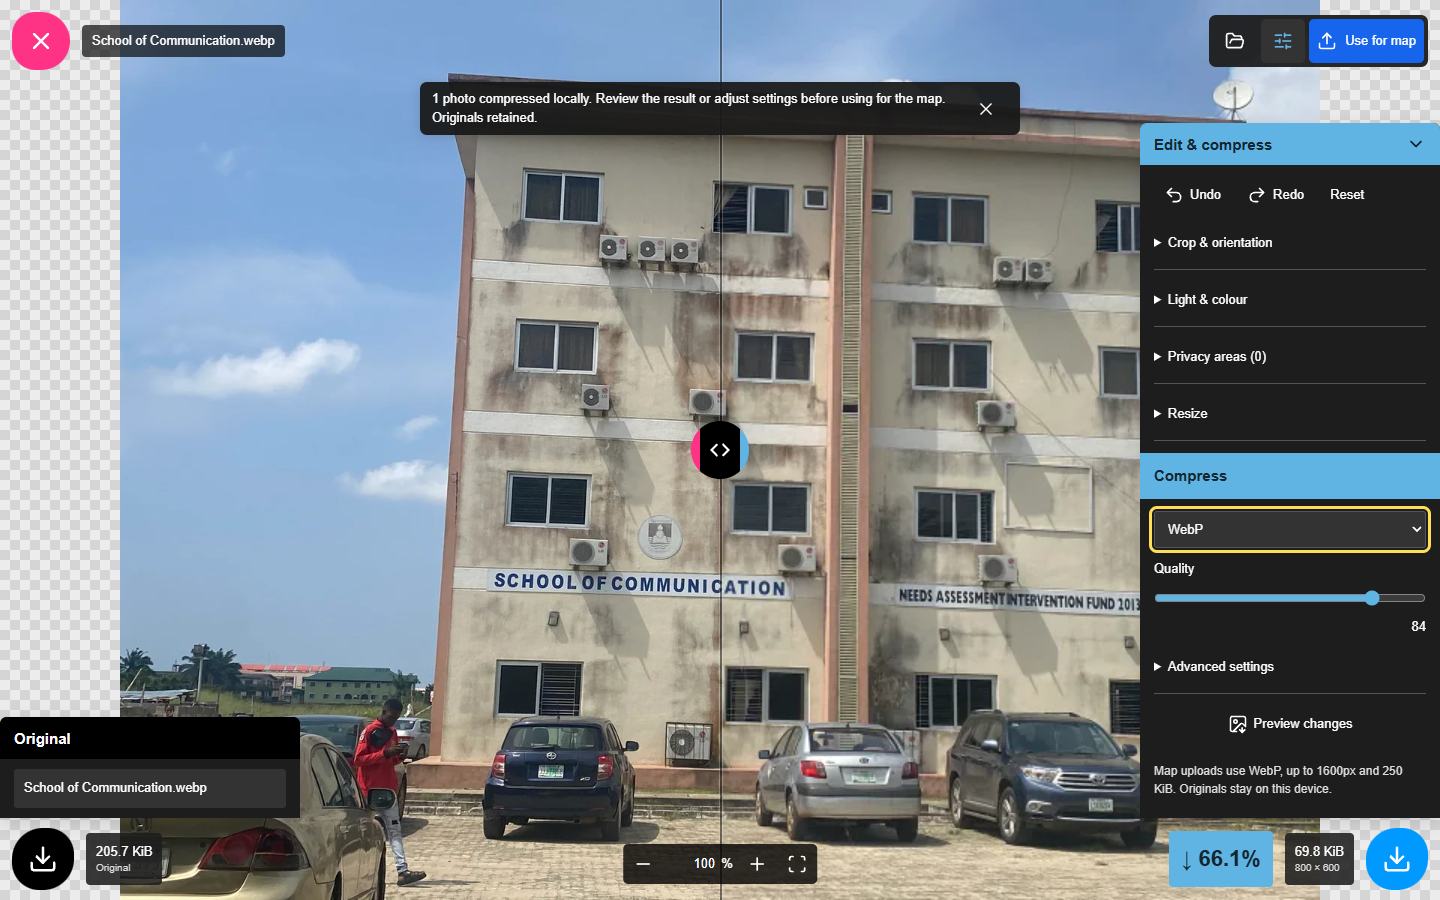
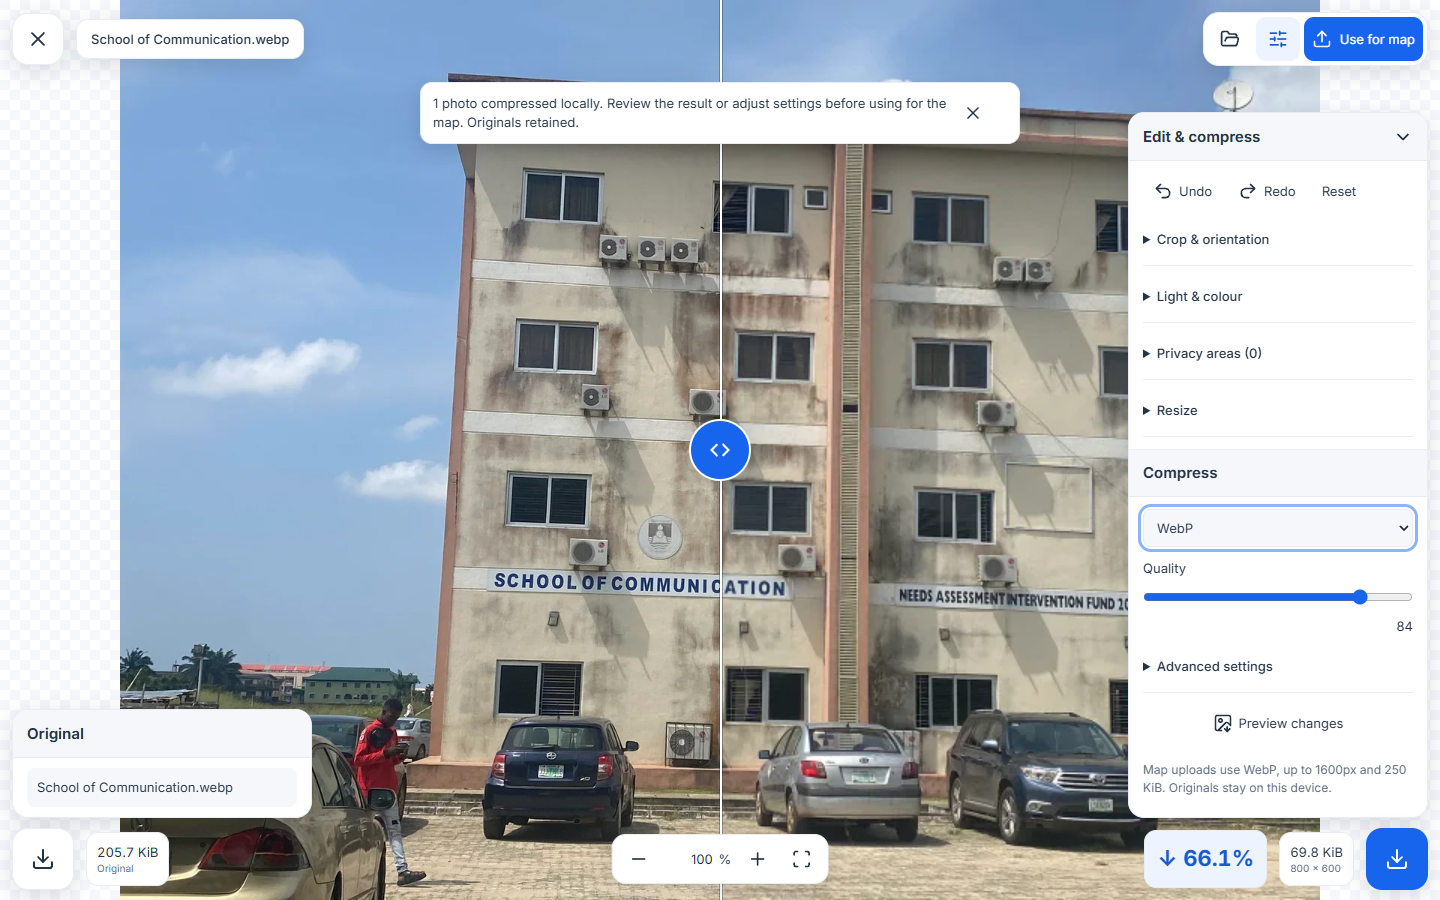
docs(photos): illustrate portrait comparison and TurnRight light and dark themes

diff --git a/docs/PHOTO-EDITING.md b/docs/PHOTO-EDITING.md
@@ -4,21 +4,25 @@ Open **Manage photos** on a building and use its sliders icon to open one editor
 
 ## Compare and compress
 
-The workspace follows Squoosh's desktop/mobile arrangement: a full-screen image, an original/edited wipe, bottom byte-size and download controls, and floating dark settings with blue and pink accents. Desktop controls float beside the image; phones use one collapsible settings panel. The header keeps Close, local files, details, settings and **Use for map** reachable.
+The workspace combines a Squoosh-inspired full-screen comparison with TurnRight's blue actions, rounded controls, Inter typography and shared light/dark theme. Settings float in white or slate panels beside the image. Phone portrait starts with a horizontal divider: original above, edited output below, and two compact download/settings bars at the bottom. Expand a bar's chevron for local files or compression settings. Desktop and landscape keep the vertical divider. The header keeps Close, details and **Use for map** reachable.
 
 ![Desktop comparison with measured output size](assets/screenshots/photo-editor-desktop-2026-09-30.png)
 
 | Phone portrait | Phone landscape |
 | --- | --- |
-| <img src="assets/screenshots/photo-editor-portrait-2026-09-30.png" width="280" alt="Phone photo editor with collapsible settings and original/edited downloads"> | ![Landscape comparison and scrollable settings](assets/screenshots/photo-editor-landscape-2026-09-30.png) |
+| <img src="assets/screenshots/photo-editor-portrait-2026-09-30.png" width="280" alt="Portrait horizontal comparison with two collapsed bottom bars"> | ![Landscape comparison and scrollable settings](assets/screenshots/photo-editor-landscape-2026-09-30.png) |
 
 1. Choose still JPEG, PNG or WebP inputs: up to 25 MiB and 40 megapixels each, or 20 images / 100 MiB per batch. Animated inputs are rejected. **Adding files automatically compresses every new image** to WebP, at most 1,600 pixels, starting at quality 84 with a 250 KiB target and a quality floor of 65. Originals are saved first. Progress, pause and cancellation remain visible; one encoding failure retains that original and does not stop other valid files.
 2. **Crop & orientation** offers drawing, numeric percentages, aspect ratios, rotation, straighten and flips. **Light & colour** adjusts exposure, contrast, saturation and temperature. **Resize** sets the longest edge while retaining proportions and never enlarging the original.
 3. Choose WebP, MozJPEG, OxiPNG or AVIF. These are Squoosh's local WebAssembly encoders, not a remote image service. WebP offers lossless mode, JPEG offers progressive output, PNG is lossless, and compression effort trades time for size. JPEG flattens transparency over white.
-4. Changes trigger a cancellable preview after a short debounce. The divider supports dragging and keyboard arrows/Home/End. Pan with a pointer or the canvas arrow keys; pinch or scroll to zoom. Fit resets pan and zoom. Both versions share the same navigation transform; after crop/rotation the original is fitted into the edited frame for reference rather than pretending the pixels still align.
+4. Changes trigger a cancellable preview after a short debounce. Drag the portrait divider up/down or use keyboard Up/Down and Home/End; desktop/landscape move it left/right. Rotation retains its position and the current recipe. Pan with a pointer or the canvas arrow keys; pinch or scroll to zoom. Fit resets pan and zoom. Both versions share the same navigation transform; after crop/rotation the original is fitted into the edited frame for reference rather than pretending the pixels still align.
 5. Inspect the actual bytes and percentage change. A downward arrow means smaller; an upward arrow means larger. **Download edited image** exports the result; the other download retains the original. Undo, redo and reset affect the recipe, never the source.
 
 **Advanced settings** offers an optional size target and a minimum quality. A bounded search chooses the highest successful quality it measured; it never silently resizes or drops below the floor. Lossless modes do not search lossy qualities. Impossible targets remain recoverable and explain what to change. Set the target to zero to encode at exactly the selected quality. A smaller output is not guaranteed for already optimised originals; compare visually before using it.
+
+| Expanded settings · light | Expanded settings · dark |
+| --- | --- |
+| <img src="assets/screenshots/photo-editor-portrait-controls-2026-09-30.png" width="280" alt="Expanded portrait compression settings above the two download bars"> | <img src="assets/screenshots/photo-editor-portrait-dark-controls-2026-09-30.png" width="280" alt="Expanded settings with TurnRight's slate panels, readable fields and blue focus ring"> |
 
 A photographic regression fixture at 800 × 600 produced 77,784-byte WebP, 87,777-byte JPEG and 111,320-byte AVIF from a 723,600-byte PNG at quality 85. Mean absolute pixel errors were 2.11, 2.48 and 1.48 out of 255 respectively. These are fixture measurements, not quality guarantees for every image.
 

diff --git a/README.md b/README.md
@@ -130,7 +130,11 @@ These new screenshots use isolated owner/API fixtures and illustrative second-ca
 
 **Offline image editor:** adding photos automatically compresses every image with map-ready defaults while retaining its original. A Squoosh-style comparison workspace uses its WebP, MozJPEG, OxiPNG and AVIF encoders locally. Preview updates automatically; pan, pinch, zoom, crop/rotate, colour and privacy tools retain the original. A bounded quality search respects the chosen floor and shows actual size changes. Map-ready copies enter rights review. [Photo editing guide and measurements](docs/PHOTO-EDITING.md).
 
-<img src="docs/assets/screenshots/photo-editor-portrait-2026-09-30.png" width="300" alt="Phone comparison workspace with a collapsible settings panel and separate downloads">
+Phone portrait uses a horizontal original/edited split and two expandable bottom bars, keeping the image visible while comparing. The workspace follows TurnRight's light/dark theme, blue actions and rounded panels.
+
+| Light mode | Dark mode |
+| --- | --- |
+| <img src="docs/assets/screenshots/photo-editor-portrait-2026-09-30.png" width="300" alt="Phone horizontal comparison with original above, edited image below and two compact download bars"> | <img src="docs/assets/screenshots/photo-editor-portrait-dark-2026-09-30.png" width="300" alt="The same horizontal photo comparison using TurnRight's slate dark theme and blue controls"> |
 
 | Landscape image editing | Build and import activity |
 | --- | --- |

diff --git a/docs/assets/screenshots/README.md b/docs/assets/screenshots/README.md
@@ -2,12 +2,15 @@
 
 ## Photo comparison workspace · 30 September 2026
 
-`photo-editor-desktop`, `photo-editor-portrait` and `photo-editor-landscape` are
+`photo-editor-desktop`, `photo-editor-portrait`, `photo-editor-portrait-controls`,
+`photo-editor-portrait-dark`, `photo-editor-portrait-dark-controls` and `photo-editor-landscape` are
 unaltered captures of the current PhotoOptimizer/PhotoCompare components at
 1440×900, 390×844 and 844×390. The isolated component fixture uses the licensed
 School of Communication photograph. These views show actual codec output at an
 800-pixel longest edge, without assigning the photograph to a different map
-building. They replace the September 27 layouts in current guides; older
+building. Portrait shows the horizontal divider and two compact bottom bars;
+the controls captures expand compression settings. The dark captures use the
+app's root theme, with the same recipe and output as light mode. They replace the September 27 layouts in current guides; older
 captures remain dated evidence. Reproduce with
 `npx playwright test photo-processing --output ../test-results/photos-refinement`.
 
